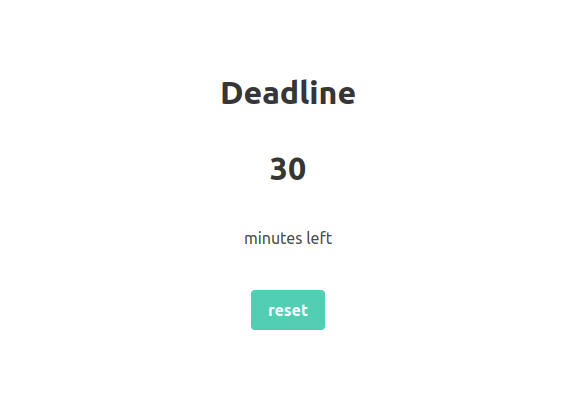
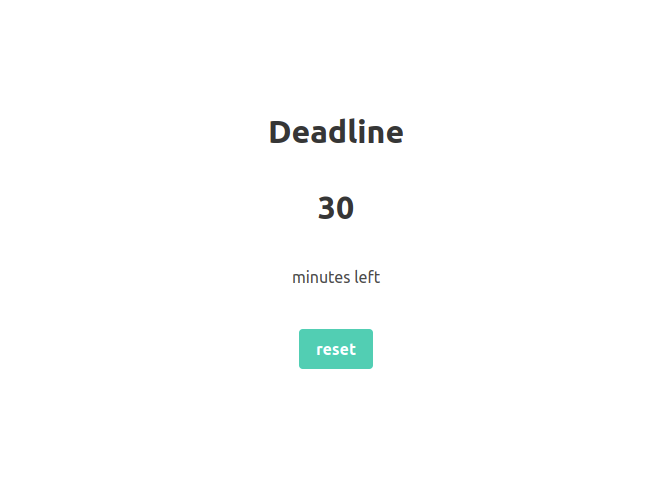
added better screenshots

diff --git a/README.md b/README.md
@@ -6,12 +6,7 @@ Open `index.html` in a browser to run the app.
 
 ## Screenshots
 
-<br />
+![](./screenshots/settings.png)
 
-<img src="./screenshots/settings.png" style="border: 1px dotted black;">
+![](./screenshots/countdown.png)
 
-<br />
-
-<img src="./screenshots/countdown.png" style="border: 1px dotted black;">
-
-<br />
